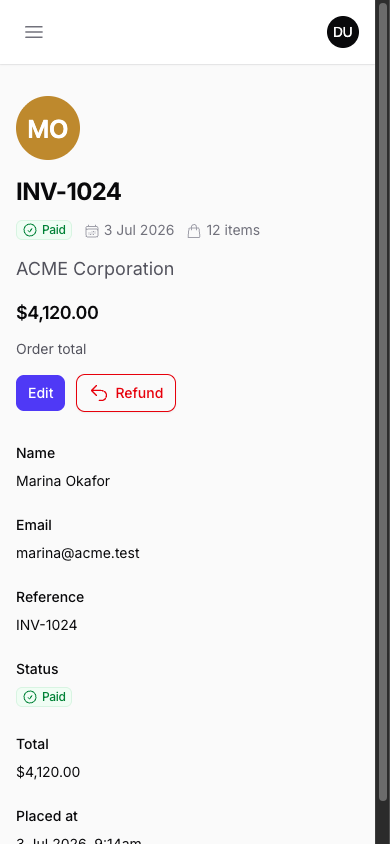
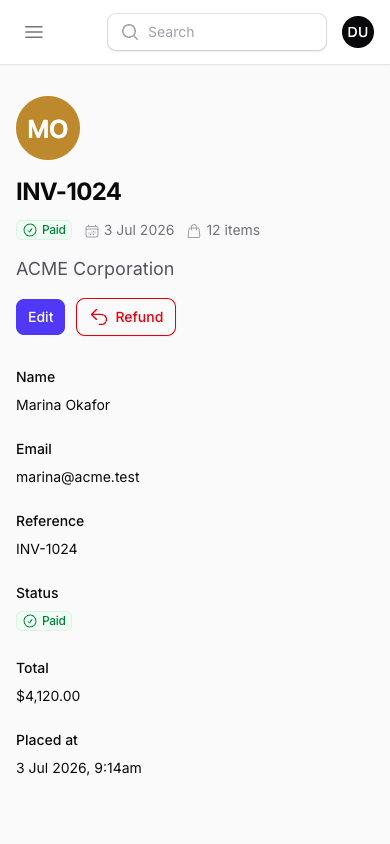
refactor(workbench): wire the demo up the way the generator leaves it
The demo predated `make:filament-header-schema` and built every header
inline, which is now the exception rather than the path most people will
take. Run the generator against the Orders resource and keep its output,
so the example shows the convention working: ListOrders and ViewOrder
apply the trait and declare nothing else, and both headers come from
Schemas/OrderHeader.php.

One class serving two pages is the interesting part, because a list page
has no record. The heading defaults to the page's own title, and the
badge row, description and avatar hide themselves when there is nothing
to read, so the same schema renders a rich record header on one page and
a plain title with a summary line on the other. Rendered output is
unchanged from the inline version on both.

Keep an inline headerSchema() on EditOrder to show a page overriding the
conventional class, and drop the trait from CreateOrder entirely -- it
was demonstrating the fallback, which no longer holds once the resource
has a header schema the trait would find.

Give OrderResource a $recordTitleAttribute while here, since that is what
the generator seeds the heading from.

Screenshots are regenerated: the record header lost its trailing total in
an earlier edit, so the committed images no longer matched the app.

diff --git a/workbench/app/Filament/Resources/Orders/Schemas/OrderHeader.php b/workbench/app/Filament/Resources/Orders/Schemas/OrderHeader.php
@@ -1,0 +1,65 @@
+<?php
+
+namespace Workbench\App\Filament\Resources\Orders\Schemas;
+
+use Filament\Infolists\Components\ImageEntry;
+use Filament\Infolists\Components\TextEntry;
+use Filament\Schemas\Components\Flex;
+use Filament\Schemas\Schema;
+use Filament\Support\Icons\Heroicon;
+use VitisStudio\FilamentHeaderSchema\Components\HeaderSection;
+use VitisStudio\FilamentHeaderSchema\Components\Heading;
+use VitisStudio\FilamentHeaderSchema\Components\Subheading;
+use Workbench\App\Enums\OrderStatus;
+use Workbench\App\Models\Order;
+
+/**
+ * Generated by `make:filament-header-schema`, then filled in.
+ *
+ * The trait finds this class by convention, so ListOrders and ViewOrder apply
+ * `HasHeaderSchema` and declare nothing else. One class serves both pages,
+ * which is why the record-specific parts hide themselves when there is no
+ * record to read.
+ */
+class OrderHeader
+{
+    public static function configure(Schema $schema): Schema
+    {
+        return $schema
+            ->components([
+                HeaderSection::make([
+                    // A list page has no record, so the heading falls back to
+                    // the page's own title rather than rendering nothing.
+                    Heading::make('reference')
+                        ->default(fn ($livewire) => $livewire->getHeading()),
+                    Flex::make([
+                        TextEntry::make('status')->badge()->hiddenLabel()->grow(false),
+                        TextEntry::make('placed_at')
+                            ->hiddenLabel()
+                            ->grow(false)
+                            ->date('j M Y')
+                            ->icon(Heroicon::OutlinedCalendarDays)
+                            ->color('gray'),
+                        TextEntry::make('items_count')
+                            ->hiddenLabel()
+                            ->grow(false)
+                            ->formatStateUsing(fn (int $state): string => $state.' items')
+                            ->icon(Heroicon::OutlinedShoppingBag)
+                            ->color('gray'),
+                    ])->visible(fn (?Order $record): bool => filled($record)),
+                    Subheading::make('customer.company')
+                        ->visible(fn (?Order $record): bool => filled($record)),
+                    Subheading::make('summary')
+                        ->state(fn (): string => Order::count().' orders, '.Order::where('status', OrderStatus::Pending)->count().' awaiting payment')
+                        ->visible(fn (?Order $record): bool => blank($record)),
+                ])
+                    ->leading(
+                        ImageEntry::make('customer.avatar')
+                            ->hiddenLabel()
+                            ->circular()
+                            ->imageSize(64)
+                            ->visible(fn (?Order $record): bool => filled($record)),
+                    ),
+            ]);
+    }
+}

diff --git a/workbench/app/Filament/Resources/Orders/Pages/ViewOrder.php b/workbench/app/Filament/Resources/Orders/Pages/ViewOrder.php
@@ -4,65 +4,23 @@ namespace Workbench\App\Filament\Resources\Orders\Pages;
 
 use Filament\Actions\Action;
 use Filament\Actions\EditAction;
-use Filament\Infolists\Components\ImageEntry;
 use Filament\Infolists\Components\TextEntry;
 use Filament\Resources\Pages\ViewRecord;
-use Filament\Schemas\Components\Flex;
 use Filament\Schemas\Schema;
 use Filament\Support\Icons\Heroicon;
-use VitisStudio\FilamentHeaderSchema\Components\HeaderSection;
-use VitisStudio\FilamentHeaderSchema\Components\Heading;
-use VitisStudio\FilamentHeaderSchema\Components\Subheading;
 use VitisStudio\FilamentHeaderSchema\Concerns\HasHeaderSchema;
 use Workbench\App\Filament\Resources\Orders\OrderResource;
-use Workbench\App\Models\Order;
 
 /**
- * The full treatment: an avatar on the leading edge, a heading with a badge
- * row and a description in the middle, and the order total pushed right.
+ * The convention: the trait and nothing else. The header comes from
+ * `Schemas/OrderHeader.php`, which `make:filament-header-schema` generated and
+ * this page never names.
  */
 class ViewOrder extends ViewRecord
 {
     use HasHeaderSchema;
 
     protected static string $resource = OrderResource::class;
-
-    public function headerSchema(Schema $schema): Schema
-    {
-        return $schema->components([
-            HeaderSection::make([
-                Heading::make('reference'),
-                Flex::make([
-                    TextEntry::make('status')->badge()->hiddenLabel()->grow(false),
-                    TextEntry::make('placed_at')
-                        ->hiddenLabel()
-                        ->grow(false)
-                        ->date('j M Y')
-                        ->icon(Heroicon::OutlinedCalendarDays)
-                        ->color('gray'),
-                    TextEntry::make('items_count')
-                        ->hiddenLabel()
-                        ->grow(false)
-                        ->formatStateUsing(fn (int $state): string => $state.' items')
-                        ->icon(Heroicon::OutlinedShoppingBag)
-                        ->color('gray'),
-                ])->dense(),
-                Subheading::make('customer.company'),
-            ])
-                ->leading(
-                    ImageEntry::make('customer.avatar')
-                        ->hiddenLabel()
-                        ->circular()
-                        ->imageSize(64),
-                )
-                ->trailing([
-                    Heading::make('total')
-                        ->level(3)
-                        ->state(fn (Order $record): string => '$'.number_format((float) $record->total, 2)),
-                    Subheading::make('total_label')->state('Order total')->size('sm'),
-                ]),
-        ]);
-    }
 
     public function infolist(Schema $schema): Schema
     {

diff --git a/workbench/app/Filament/Resources/Orders/Pages/ListOrders.php b/workbench/app/Filament/Resources/Orders/Pages/ListOrders.php
@@ -5,36 +5,19 @@ namespace Workbench\App\Filament\Resources\Orders\Pages;
 use Filament\Actions\Action;
 use Filament\Actions\CreateAction;
 use Filament\Resources\Pages\ListRecords;
-use Filament\Schemas\Schema;
-use VitisStudio\FilamentHeaderSchema\Components\Heading;
-use VitisStudio\FilamentHeaderSchema\Components\Subheading;
 use VitisStudio\FilamentHeaderSchema\Concerns\HasHeaderSchema;
-use Workbench\App\Enums\OrderStatus;
 use Workbench\App\Filament\Resources\Orders\OrderResource;
-use Workbench\App\Models\Order;
 
 /**
- * A list page has no record, so both components take their state from a
- * closure instead of an attribute path.
+ * The same `Schemas/OrderHeader.php` as ViewOrder, reached by the same
+ * convention. There is no record here, so the parts of that schema which read
+ * one hide themselves and the heading falls back to this page's title.
  */
 class ListOrders extends ListRecords
 {
     use HasHeaderSchema;
 
     protected static string $resource = OrderResource::class;
-
-    public function headerSchema(Schema $schema): Schema
-    {
-        return $schema->components([
-            Heading::make('title')->state('Orders'),
-            Subheading::make('summary')->state(function (): string {
-                $total = Order::count();
-                $pending = Order::where('status', OrderStatus::Pending)->count();
-
-                return "{$total} orders, {$pending} awaiting payment";
-            }),
-        ]);
-    }
 
     /**
      * @return array<Action>

diff --git a/workbench/app/Filament/Resources/Orders/Pages/CreateOrder.php b/workbench/app/Filament/Resources/Orders/Pages/CreateOrder.php
@@ -3,16 +3,14 @@
 namespace Workbench\App\Filament\Resources\Orders\Pages;
 
 use Filament\Resources\Pages\CreateRecord;
-use VitisStudio\FilamentHeaderSchema\Concerns\HasHeaderSchema;
 use Workbench\App\Filament\Resources\Orders\OrderResource;
 
 /**
- * The trait is applied but no `headerSchema()` is defined, so this page keeps
- * Filament's native heading — useful for a side-by-side screenshot.
+ * Opted out: no trait, so this page keeps Filament's native heading even though
+ * the resource has a header schema. `make:filament-header-schema` leaves create
+ * pages unselected by default for exactly this reason.
  */
 class CreateOrder extends CreateRecord
 {
-    use HasHeaderSchema;
-
     protected static string $resource = OrderResource::class;
 }

diff --git a/workbench/app/Filament/Resources/Orders/Pages/EditOrder.php b/workbench/app/Filament/Resources/Orders/Pages/EditOrder.php
@@ -13,7 +13,9 @@ use VitisStudio\FilamentHeaderSchema\Concerns\HasHeaderSchema;
 use Workbench\App\Filament\Resources\Orders\OrderResource;
 
 /**
- * A quieter header: a level 2 heading keeps the emphasis on the form below.
+ * The override: a `headerSchema()` method on the page wins over the
+ * conventional `Schemas/OrderHeader.php`. A quieter level 2 heading keeps the
+ * emphasis on the form below.
  */
 class EditOrder extends EditRecord
 {

diff --git a/workbench/app/Filament/Resources/Orders/OrderResource.php b/workbench/app/Filament/Resources/Orders/OrderResource.php
@@ -22,6 +22,9 @@ class OrderResource extends Resource
 
     protected static ?int $navigationSort = 1;
 
+    // `make:filament-header-schema` seeds the generated heading with this.
+    protected static ?string $recordTitleAttribute = 'reference';
+
     public static function form(Schema $schema): Schema
     {
         return $schema->components([

diff --git a/README.md b/README.md
@@ -274,7 +274,16 @@ composer test
 
 ## Demo app
 
-A Filament panel with two resources and seeded data lives in [workbench/](workbench/). It covers a record header, a list header, a quieter edit header, and a page that keeps Filament's native heading for comparison.
+A Filament panel with two resources and seeded data lives in [workbench/](workbench/). Its Orders resource is wired up the way `make:filament-header-schema` leaves things, so every path through the package is visible at once:
+
+| Page | What it shows |
+|---|---|
+| `ListOrders` | The convention — trait only, header from `Schemas/OrderHeader.php`, no record so the schema's record-specific parts hide themselves |
+| `ViewOrder` | The same class with a record: avatar, badge row and description |
+| `EditOrder` | An inline `headerSchema()` overriding the conventional class |
+| `CreateOrder` | No trait — Filament's native heading, untouched |
+| `ViewCustomer` | An inline `headerSchema()` on a resource with no generated class |
+| `ListCustomers` | No trait — the baseline to compare against |
 
 ```bash
 composer serve
